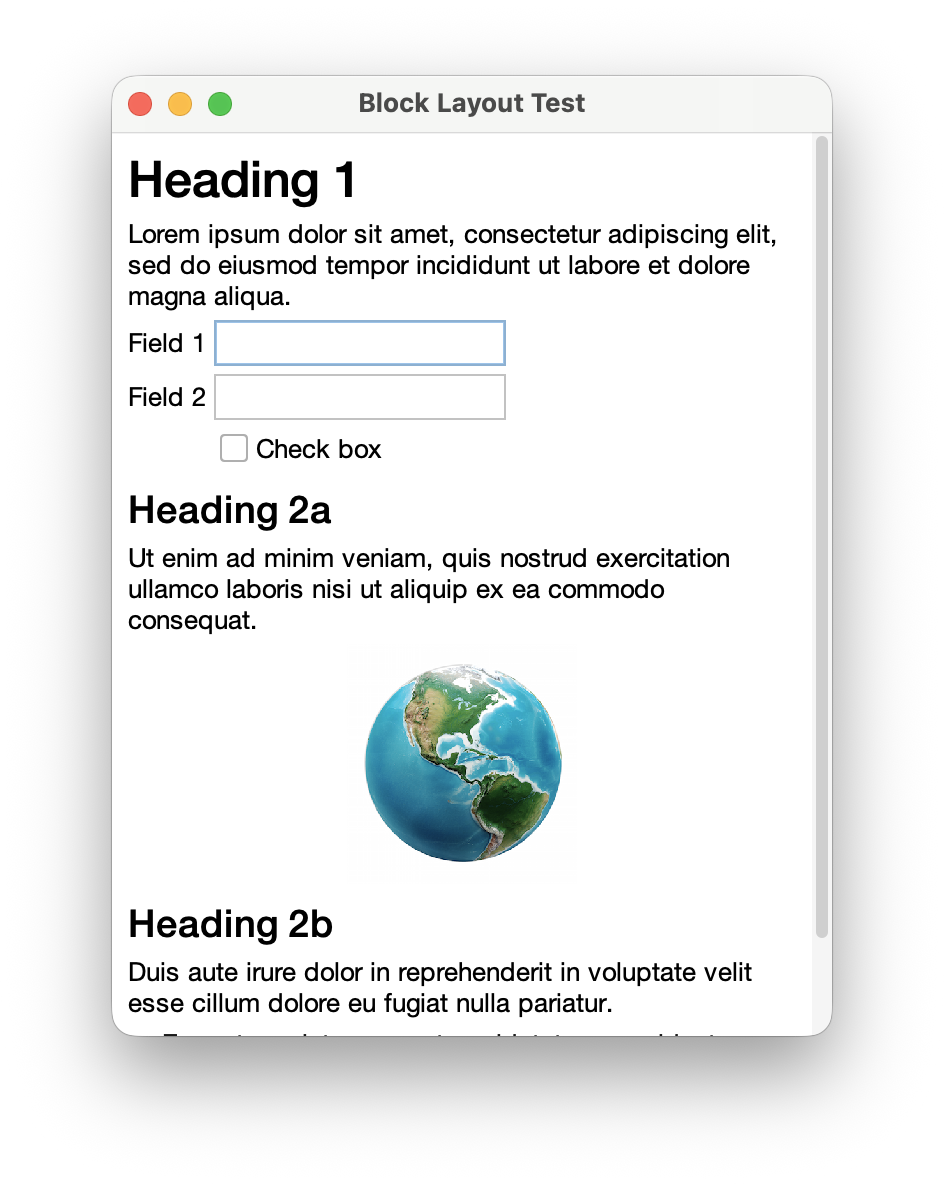
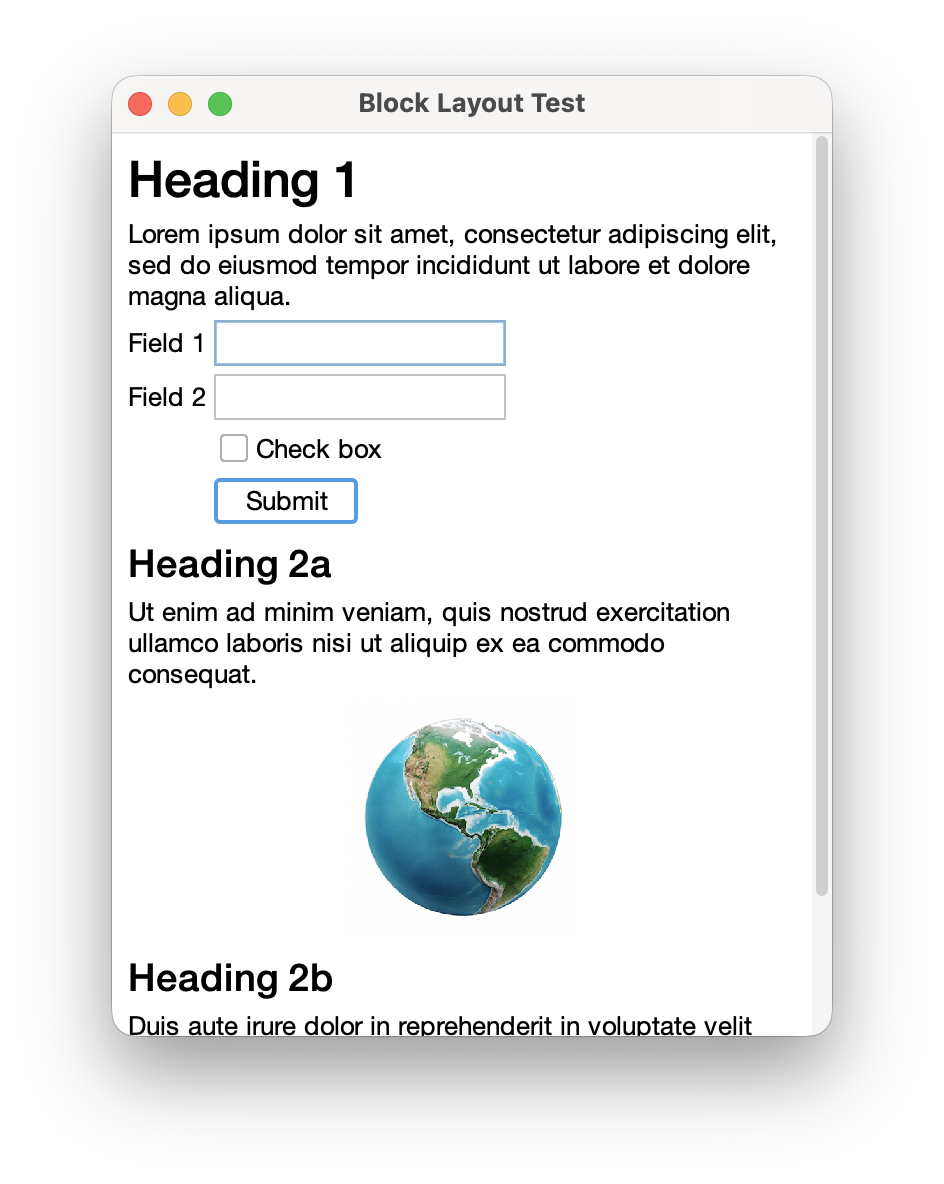
Improve input validation.

Changed region(s): [[0.1229, 0.4062, 0.768, 0.7812], [0.1229, 0.75, 0.7987, 0.875], [0.8602, 0.75, 0.8909, 0.8125]]

diff --git a/sierra/src/main/java/org/httprpc/sierra/UILoader.java b/sierra/src/main/java/org/httprpc/sierra/UILoader.java
@@ -542,7 +542,21 @@ public class UILoader {
             } else if (name.equals(STYLE) || name.equals(STYLE_CLASS)) {
                 component.putClientProperty(String.format("FlatLaf.%s", name), value);
             } else if (name.equals(PATTERN)) {
-                component.setInputVerifier(new RegexInputVerifier(value));
+                if (!(component instanceof JTextField textField)) {
+                    throw new UnsupportedOperationException("Component is not a text field.");
+                }
+
+                textField.setInputVerifier(new RegexInputVerifier(value));
+
+                textField.addActionListener(event -> {
+                    if (textField.getInputVerifier().shouldYieldFocus(textField, null)) {
+                        var defaultButton = textField.getRootPane().getDefaultButton();
+
+                        if (defaultButton != null) {
+                            defaultButton.doClick(20);
+                        }
+                    }
+                });
             } else if (name.equals(PLACEHOLDER_TEXT)) {
                 component.putClientProperty(String.format("%s.%s", JTextField.class.getSimpleName(), name), getText(value));
             } else if (name.equals(SHOW_CLEAR_BUTTON)) {

diff --git a/sierra-test/src/main/java/org/httprpc/sierra/test/BlockLayoutTest.java b/sierra-test/src/main/java/org/httprpc/sierra/test/BlockLayoutTest.java
@@ -17,12 +17,16 @@ package org.httprpc.sierra.test;
 import com.formdev.flatlaf.FlatLightLaf;
 import org.httprpc.sierra.UILoader;
 
+import javax.swing.JButton;
 import javax.swing.JFrame;
+import javax.swing.JOptionPane;
 import javax.swing.JScrollPane;
 import javax.swing.SwingUtilities;
 import java.awt.Color;
 
 public class BlockLayoutTest extends JFrame implements Runnable {
+    private JButton submitButton = null;
+
     private BlockLayoutTest() {
         super("Block Layout Test");
 
@@ -38,8 +42,16 @@ public class BlockLayoutTest extends JFrame implements Runnable {
 
         setContentPane(scrollPane);
 
+        submitButton.addActionListener(event -> submitForm());
+
+        rootPane.setDefaultButton(submitButton);
+
         setSize(360, 480);
         setVisible(true);
+    }
+
+    private void submitForm() {
+        JOptionPane.showMessageDialog(this, "Form submitted.");
     }
 
     public static void main(String[] args) {
